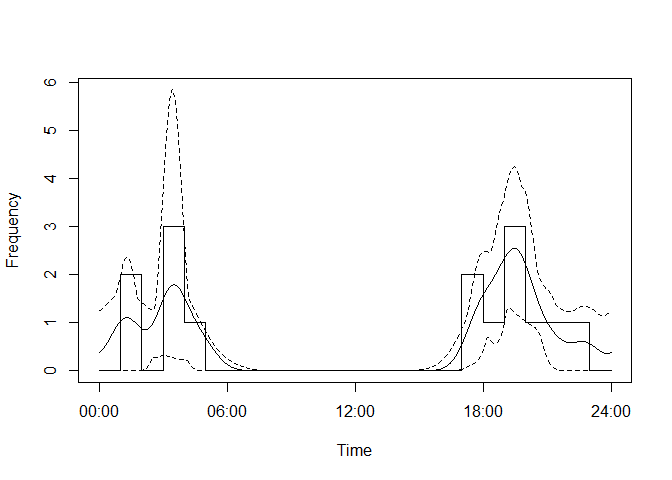
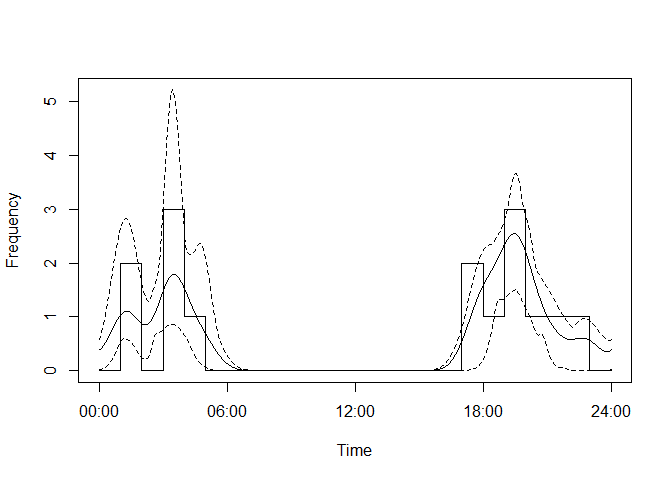
Readme update

diff --git a/README.md b/README.md
@@ -12,7 +12,7 @@ estimate animal density, including models for the component parameters
 (speed, activity level and detection zone dimensions). There is also
 some basic functionality to check and correct the data.
 
-## Getting started with RStudio
+## <a id="GettingStarted"></a>Getting started with RStudio
 
 If you don’t already have them, install [R](https://cran.r-project.org)
 and [RStudio](https://posit.co/download/rstudio-desktop).
@@ -101,7 +101,7 @@ pkg <- read_camtrapDP("C:/path/to/your/folder/datapackage.json") # Windows
 pkg <- read_camtrapDP("/path/to/your/folder/datapackage.json") # Mac
 ```
 
-### Checking the deployment schedule
+### <a id="ScheduleChecking"></a>Checking the deployment schedule
 
 This line provides a visualisation of the deployment schedules. It can
 quickly highlight any incorrect dates, or help you decide where to split
@@ -189,7 +189,7 @@ pkg_corrected <- correct_time(pkg,
 
 Both examples create a new datapackage object called `pkg_corrected`.
 
-### Checking deployment calibration models
+### <a id="CalibrationChecking"></a>Checking deployment calibration models
 
 Run the next chunk to show diagnostic plots for the deployment
 calibration models used to generate animal position and speed data
@@ -288,10 +288,10 @@ res_vul$estimates
     ## radius          3.3516525  0.78550867 0.2343646  1.81205547  4.8912495 13
     ## angle          44.9831275  9.42829597 0.2095963 26.50366740 63.4625876 15
     ## active_speed    1.3414083  0.60283473 0.4494044  0.15985224  2.5229644  6
-    ## activity_level  0.2451959  0.11270535 0.4596543  0.02429341  0.4660984 15
-    ## overall_speed   7.8937874  5.07446128 0.6428424 -2.05215675 17.8397315 NA
-    ## trap_rate       0.3829885  0.04382842 0.1144379  0.30388645  0.4376289  3
-    ## density        16.3286340 13.57645226 0.8314506  3.94366585 67.6082348 NA
+    ## activity_level  0.2451959  0.05835315 0.2379859  0.13082371  0.3595681 15
+    ## overall_speed   7.8937874  4.01421822 0.5085288  0.02591966 15.7616551 NA
+    ## trap_rate       0.3829885  0.05806371 0.1516069  0.28142322  0.4376289  3
+    ## density        16.3286340 12.07164182 0.7392928  4.47589786 59.5688943 NA
     ##                   unit
     ## radius               m
     ## angle           degree
